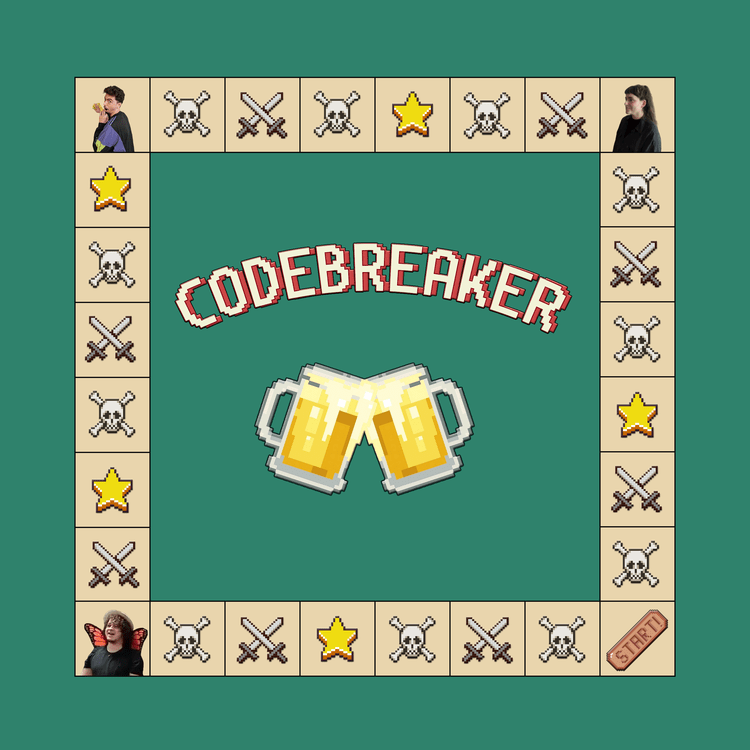
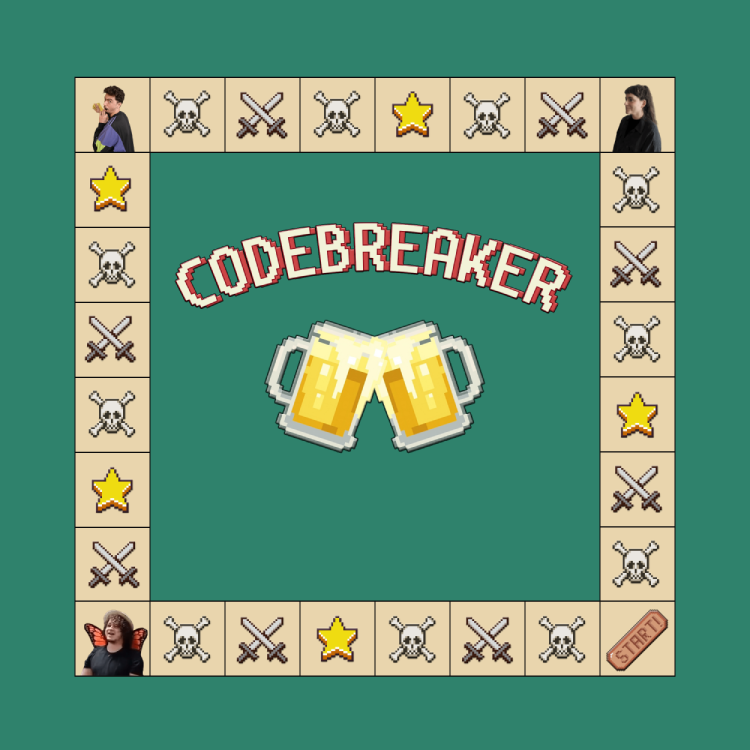
fixed dice location and centered board art

diff --git a/src/io/codeforall/gameJam/Dado.java b/src/io/codeforall/gameJam/Dado.java
@@ -13,8 +13,8 @@ public class Dado implements MouseHandler {
     private final ExecutorService executorService;
     private Picture dado;
     private Game game = new Game();
-    int col = 300;
-    int row = 300;
+    int col = 322;
+    int row = 470;
 
     public Dado(String pathToImage) {
         dado = new Picture(col, row, pathToImage);
